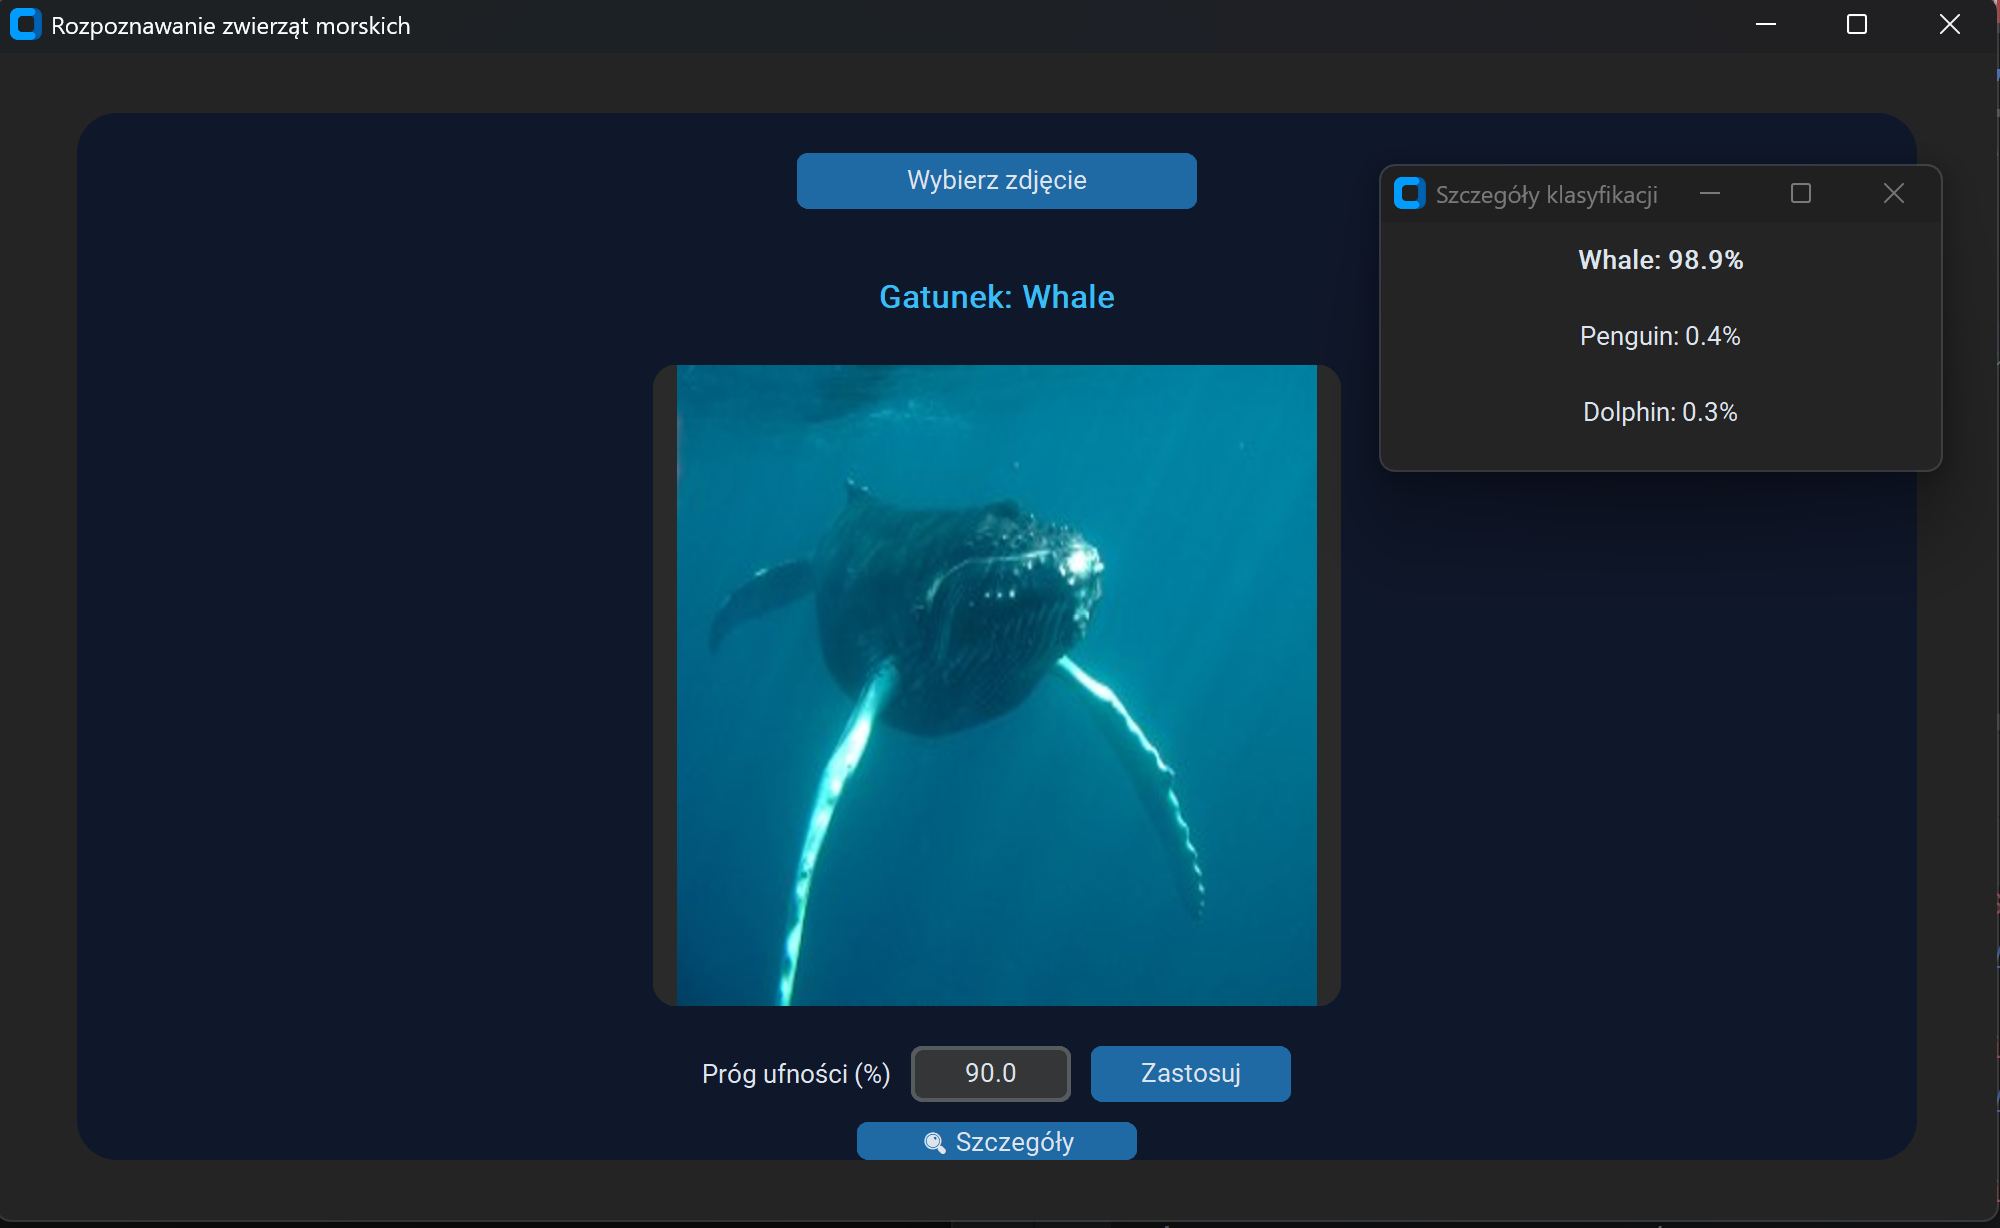
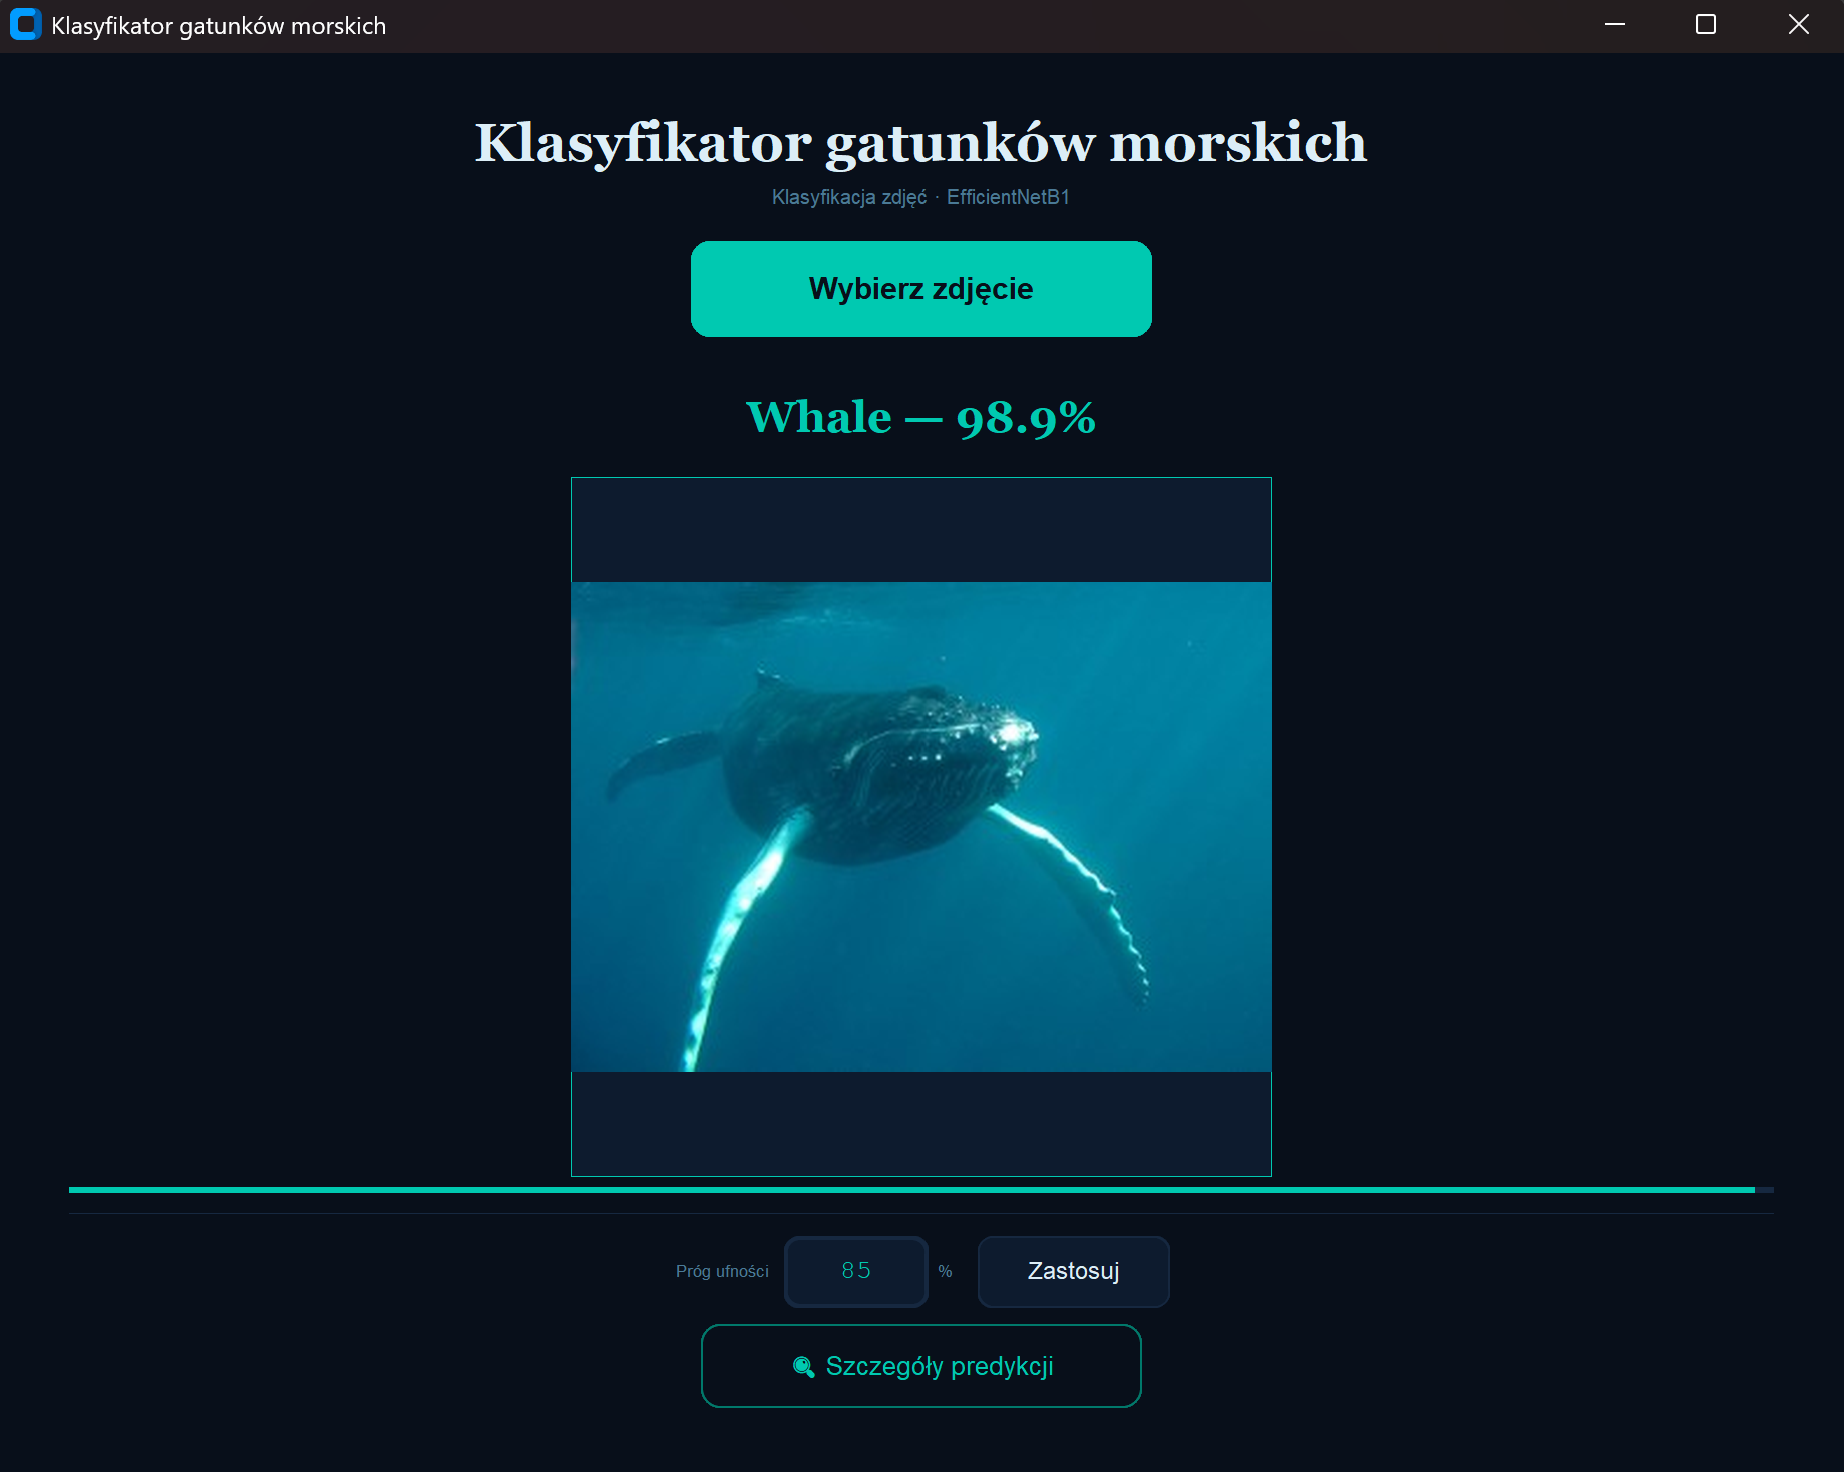
Updated UI

diff --git a/app/main.py b/app/main.py
@@ -22,8 +22,8 @@ class MarineAnimalClassifierApp(ctk.CTk):
     PREVIEW_SIZE = (700, 700)
     SPINNER_SIZE = (96, 96)
 
-    WINDOW_SIZE = "950x1150"
-    MIN_WINDOW_SIZE = (850, 950)
+    WINDOW_SIZE = "1000x700"
+    MIN_WINDOW_SIZE = (1000, 700)
 
     DEFAULT_THRESHOLD = 85.0
 
@@ -49,7 +49,7 @@ class MarineAnimalClassifierApp(ctk.CTk):
     def __init__(self) -> None:
         super().__init__()
 
-        self.title("Marine Vision — Klasyfikator gatunków")
+        self.title("Klasyfikator gatunków morskich")
         self.geometry(self.WINDOW_SIZE)
         self.minsize(*self.MIN_WINDOW_SIZE)
         self.configure(fg_color=self.COLORS["bg"])
@@ -97,7 +97,7 @@ class MarineAnimalClassifierApp(ctk.CTk):
         # title
         tk.Label(
             wrap,
-            text="Marine Vision",
+            text="Klasyfikator gatunków morskich",
             font=("Georgia", 40, "bold"),
             fg=self.COLORS["text"],
             bg=self.COLORS["bg"],
@@ -105,7 +105,7 @@ class MarineAnimalClassifierApp(ctk.CTk):
 
         tk.Label(
             wrap,
-            text="Klasyfikacja gatunków morskich · EfficientNetB1",
+            text="Klasyfikacja zdjęć · EfficientNetB1",
             font=("Helvetica Neue", 15),
             fg=self.COLORS["text_muted"],
             bg=self.COLORS["bg"],
